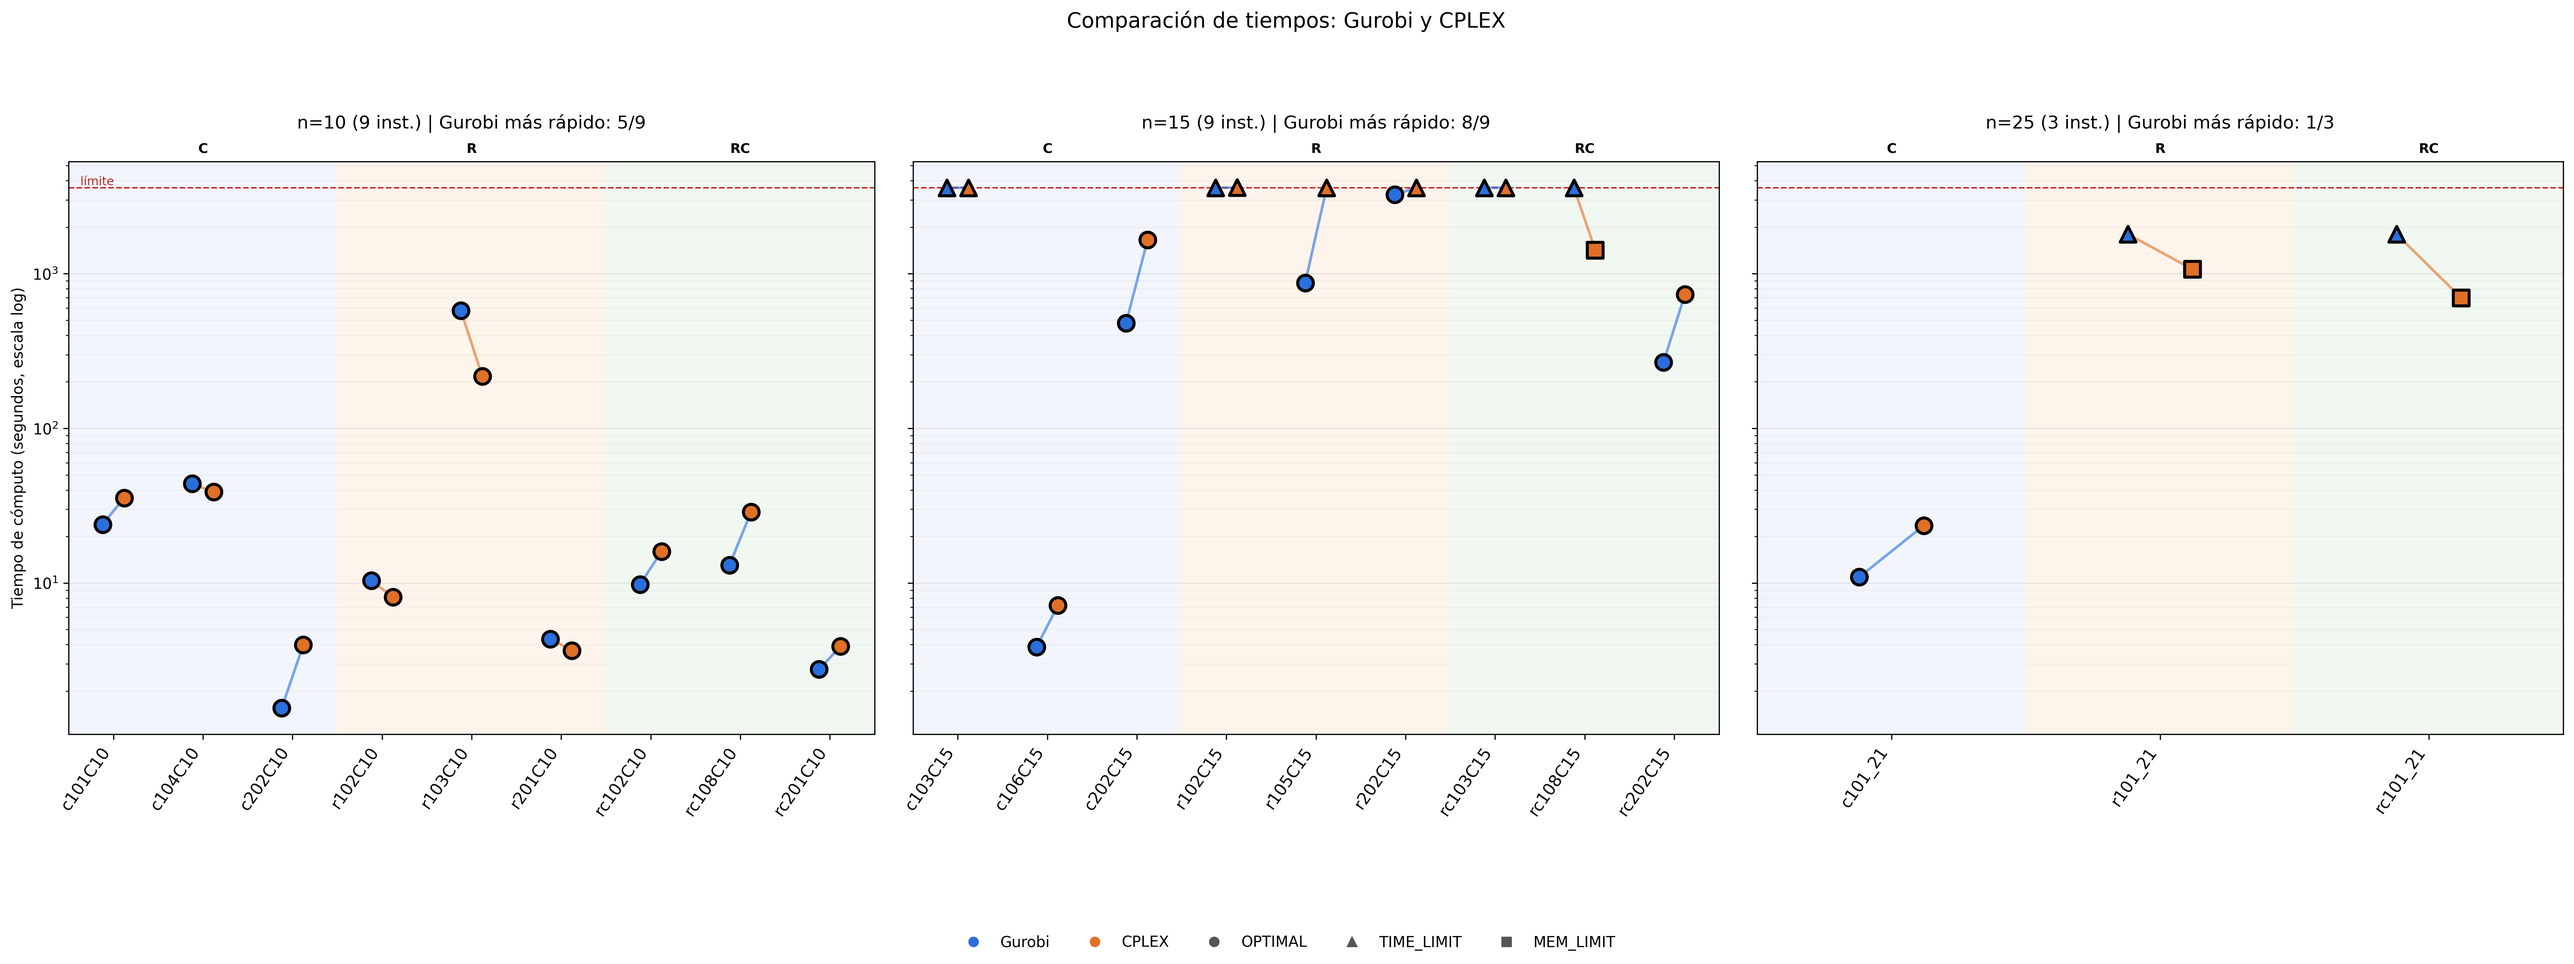
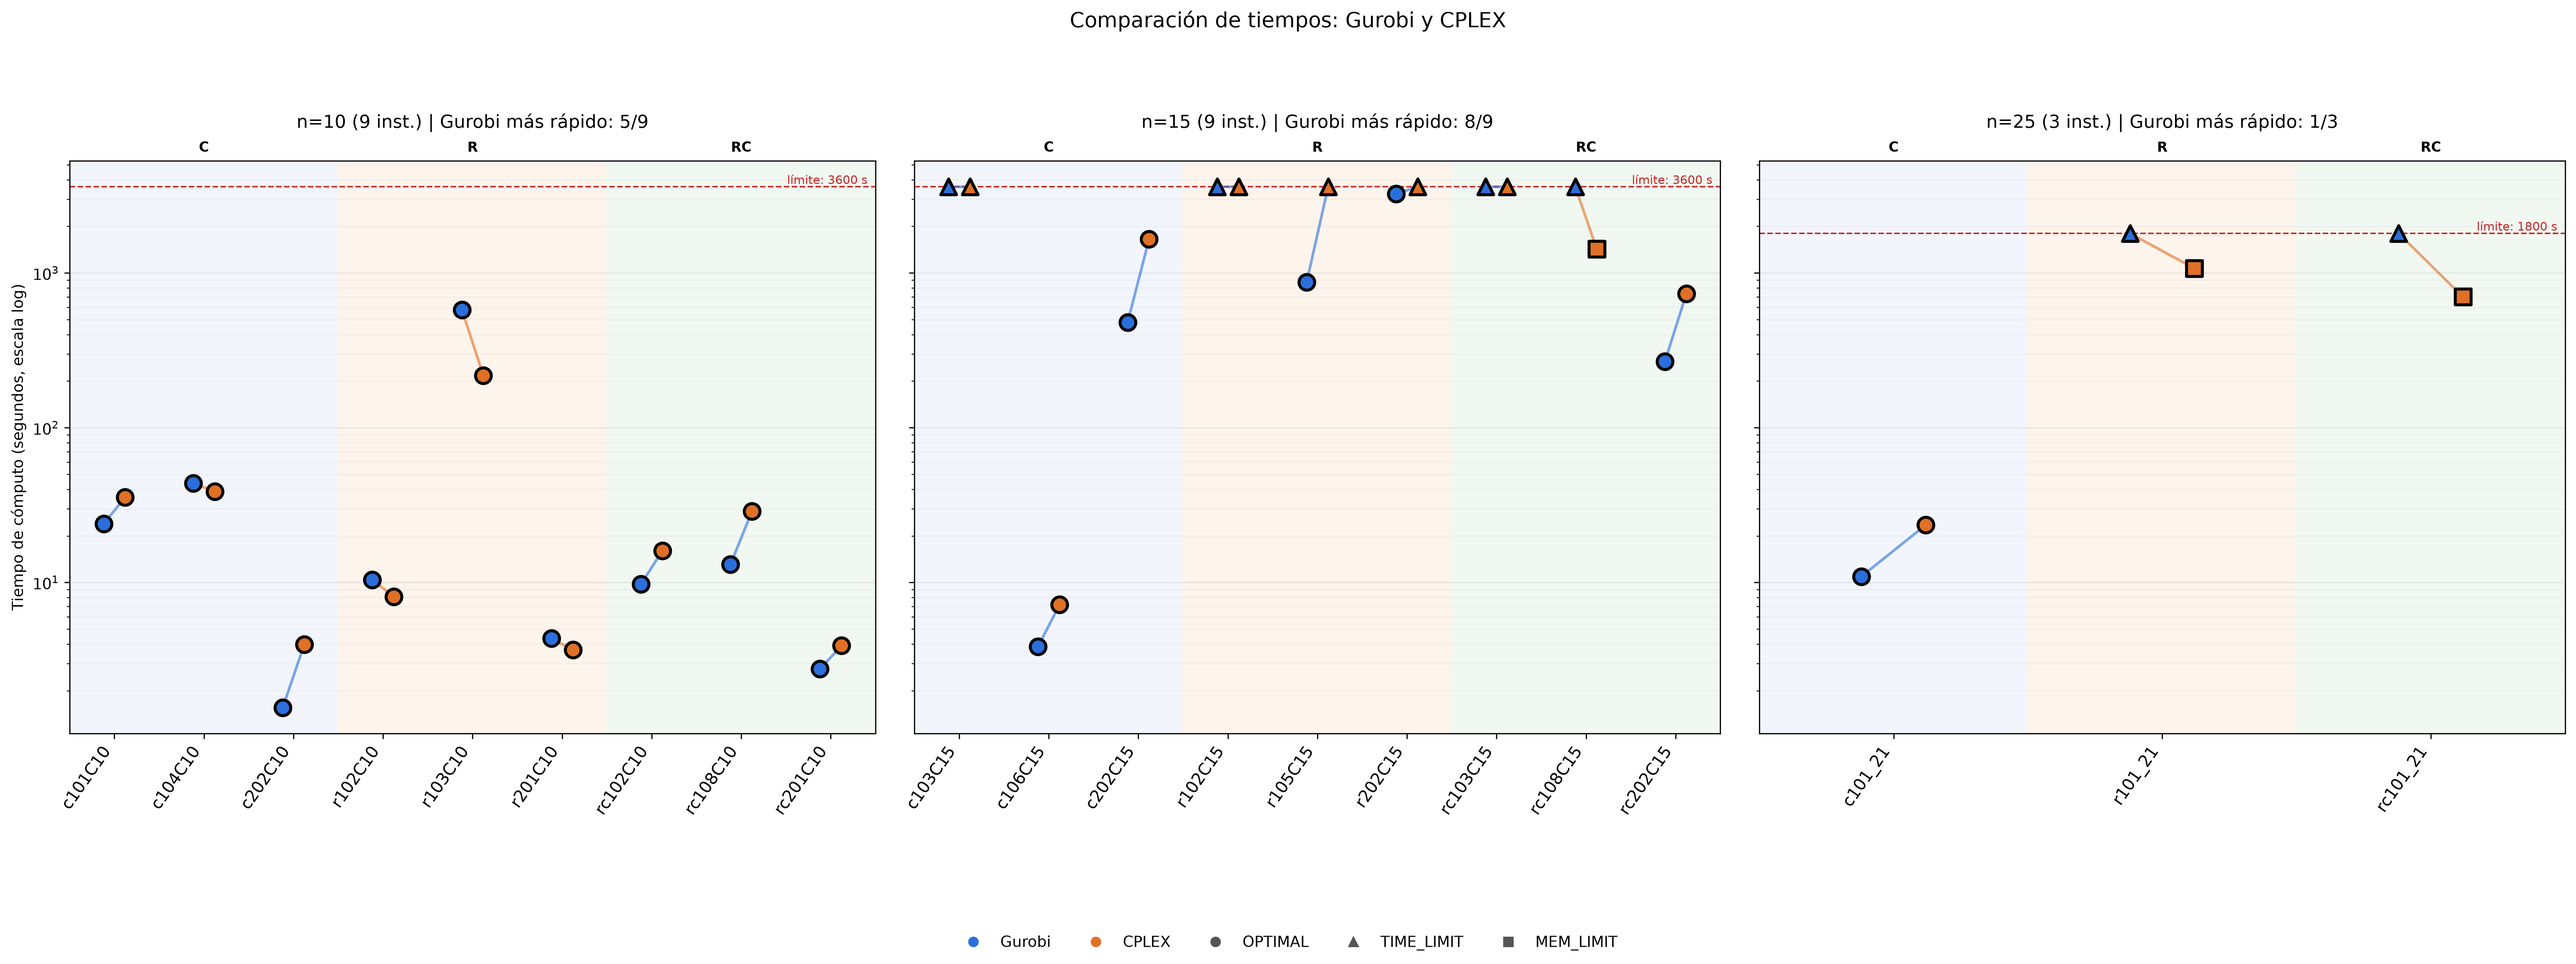
cambios en graficos mipgap y comp de tiempos

diff --git a/src/visualize.py b/src/visualize.py
@@ -512,7 +512,8 @@ def graficar_bateria_soc(data: dict, result: dict, output_file: Path) -> None:
     plt.close(fig)
     print(f"Gráfico SoC guardado en: {output_file}")
 
-LIMITE_TIEMPO = 3600
+# Límites usados en las corridas guardadas del benchmark.
+LIMITES_TIEMPO_POR_ESCALA = {"n=10": 3600, "n=15": 3600, "n=25": 1800}
 
 def graficar_tiempos(csv_path: Path, output_file: Path) -> None:
     with open(csv_path, "r", encoding="utf-8", newline="") as file:
@@ -632,24 +633,25 @@ def graficar_tiempos(csv_path: Path, output_file: Path) -> None:
                 zorder=2,
             )
 
-        # Línea del límite de tiempo
+        # Línea del límite de tiempo utilizado en esta escala.
+        limite_tiempo = LIMITES_TIEMPO_POR_ESCALA[escala]
         ax.axhline(
-            LIMITE_TIEMPO,
+            limite_tiempo,
             color="#C62828",
             linestyle="--",
             linewidth=1,
             zorder=1,
         )
-        if ax is axes[0]:
-            ax.text(
-                0.01,
-                LIMITE_TIEMPO,
-                " límite",
-                color="#C62828",
-                fontsize=8,
-                transform=ax.get_yaxis_transform(),
-                va="bottom",
-            )
+        ax.text(
+            0.99,
+            limite_tiempo,
+            f" límite: {limite_tiempo} s",
+            color="#C62828",
+            fontsize=8,
+            transform=ax.get_yaxis_transform(),
+            ha="right",
+            va="bottom",
+        )
 
         # Resumen en el título: cuántas veces ganó Gurobi
         gana_g = sum(1 for g, c in pares if g[1] <= c[1])
@@ -842,23 +844,30 @@ def graficar_mipgap(csv_path: Path, output_file: Path) -> None:
                     (valores_par["Gurobi"], valores_par["CPLEX"])
                 )
 
-        # Conector con el color del solver que tiene menor gap
+        # Los empates en el gap reportado usan un conector neutro.
         for gurobi, cplex in pares:
-            gana_gurobi = gurobi[1] <= cplex[1]
+            if gurobi[1] == cplex[1]:
+                color_conector = "#777777"
+            else:
+                color_conector = colores_solver[
+                    "Gurobi" if gurobi[1] < cplex[1] else "CPLEX"
+                ]
             ax.plot(
                 [gurobi[0], cplex[0]],
                 [gurobi[1], cplex[1]],
-                color=colores_solver["Gurobi" if gana_gurobi else "CPLEX"],
+                color=color_conector,
                 linewidth=1.8,
                 alpha=0.6,
                 zorder=2,
             )
 
-        # Resumen en el título
-        gana_g = sum(1 for g, c in pares if g[1] <= c[1])
+        # Solo se comparan instancias con gap disponible en ambos solvers.
+        gana_g = sum(1 for g, c in pares if g[1] < c[1])
+        gana_c = sum(1 for g, c in pares if c[1] < g[1])
+        empates = sum(1 for g, c in pares if g[1] == c[1])
         ax.set_title(
-            f"{escala} ({len(instancias)} inst.) | "
-            f"Gurobi menor gap: {gana_g}/{len(pares)}",
+            f"{escala} ({len(instancias)} inst.; comparables: {len(pares)})\n"
+            f"Menor gap: Gurobi {gana_g} | CPLEX {gana_c} | Empates {empates}",
             fontsize=13,
             pad=26,
         )
